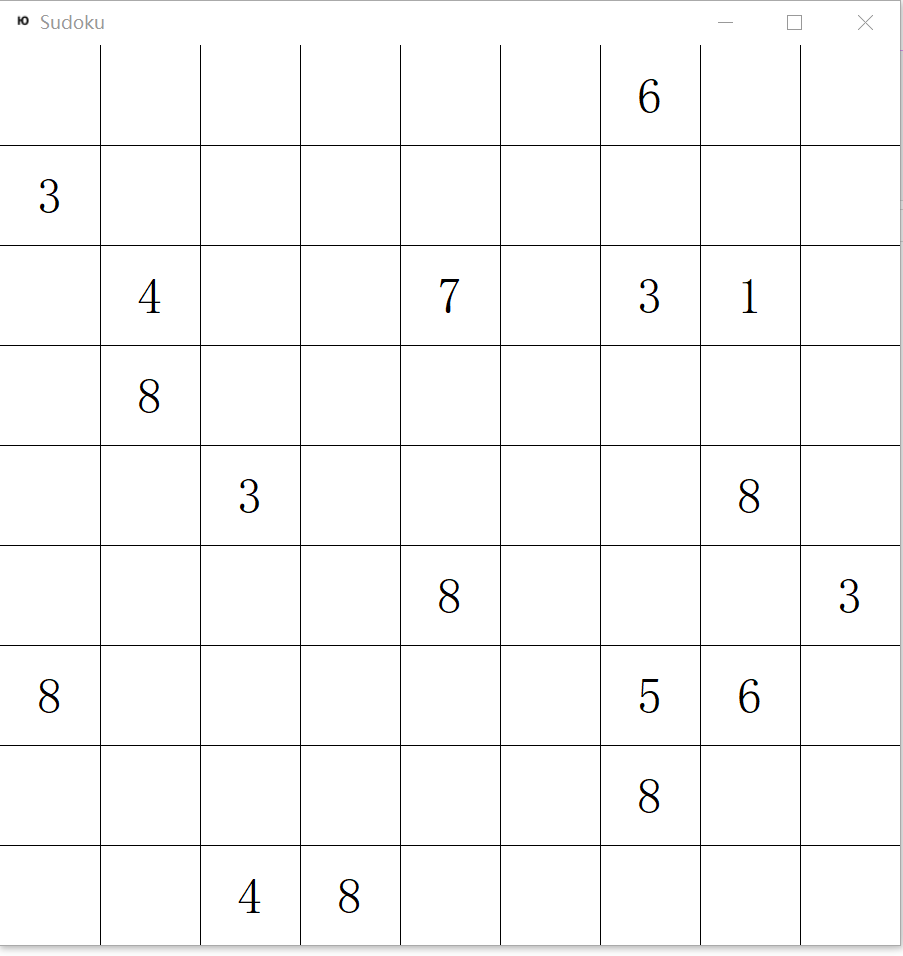
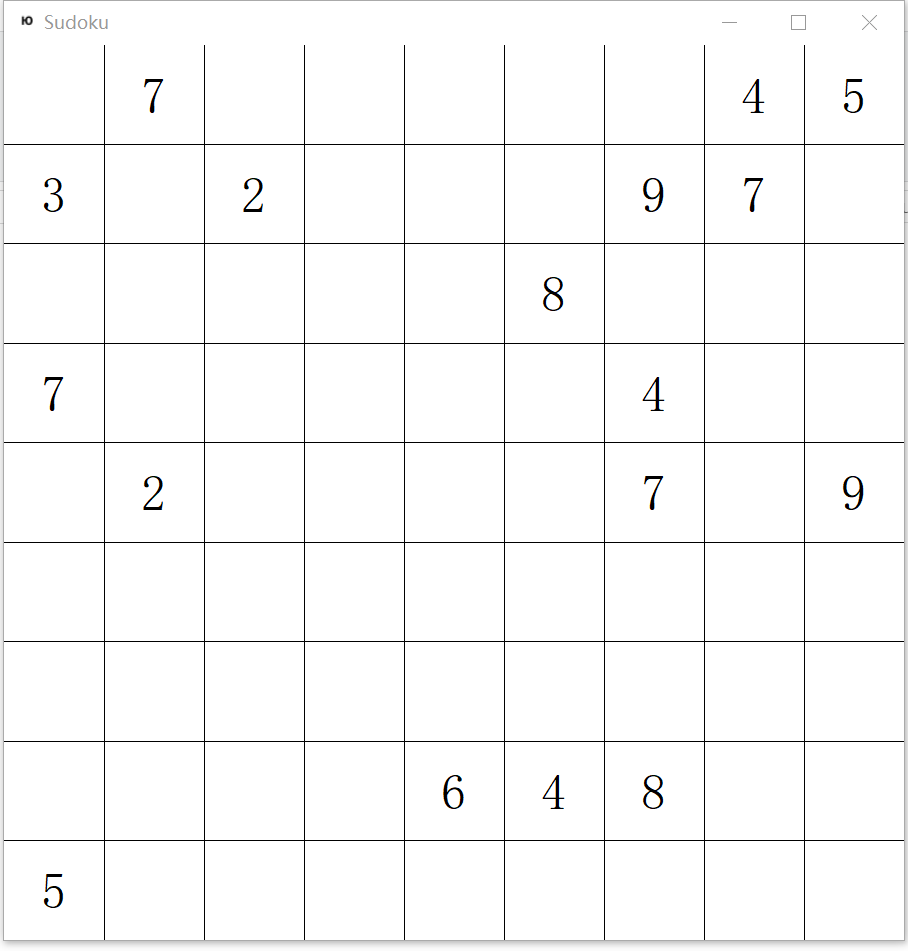
update result and README

diff --git a/alphasudoku/train.py b/alphasudoku/train.py
@@ -19,10 +19,10 @@ class TrainAI:
             print("The AI has been initiated successfully!")
 
     def start(self, filename):
-        n_epochs = 100
-        n_data =  100
-        train_epochs = 30
-        batch_size = 32
+        n_epochs = 1000
+        n_data =  1000
+        train_epochs = 60
+        batch_size = 128
 
         for i in range(n_epochs):
             if self.verbose:

diff --git a/README.md b/README.md
@@ -2,11 +2,34 @@
 > Play Sudoku game with Artificial Intelligence
 
 ## Features
-+ Home-made Sudoku Game (Not finished completely)
++ Home-made Sudoku Game for AI
 
-![](./pics/sudoku.png)
+<img src=./pics/sudoku.png width="50%" height="50%" />
 
-+ Self-play training
++ Lots of training to get highly accurate answers
+
+<img src=./pics/sudoku_ai.png width="50%" height="50%" />
+
+The <font color=#ff0000>red values</font> are obtained by AI model
+
+## Requirements
++ Numpy, Keras, Tensorflow, h5py
++ PyQt5 (for visualization UI)
+
+## How to use
++ Train AI model firstly (recommand to do this in GPU server)
+
+        cd alphasudoku  
+        python alphasudoku.py --retrain --verbose
+
++ Run sudoku game for AI (press Space to view the predicted result from AI)
+
+        cd alphasudoku
+        python alphasudoku.py --playai
 
 ## Status
-Coming soon
+Nearly finished, the part about the sudoku game for human will be planned to achieve in the future according to my schedule
+
+# E-mail
+longyang_123@yeah.net  
+You're most welcome to contact with me about the details in this project.
